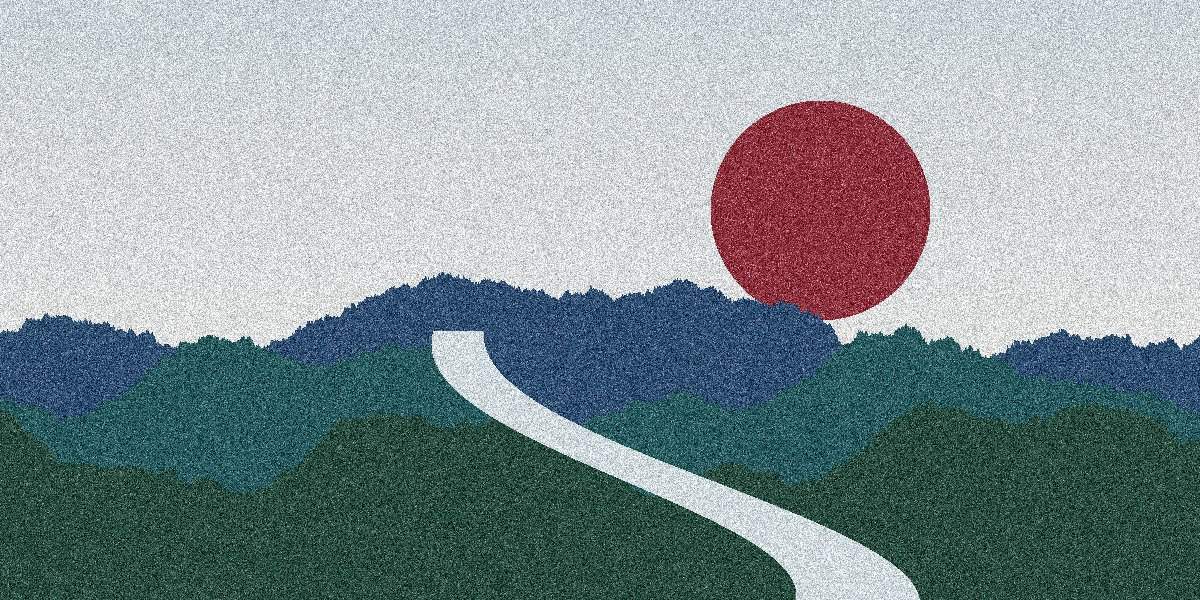
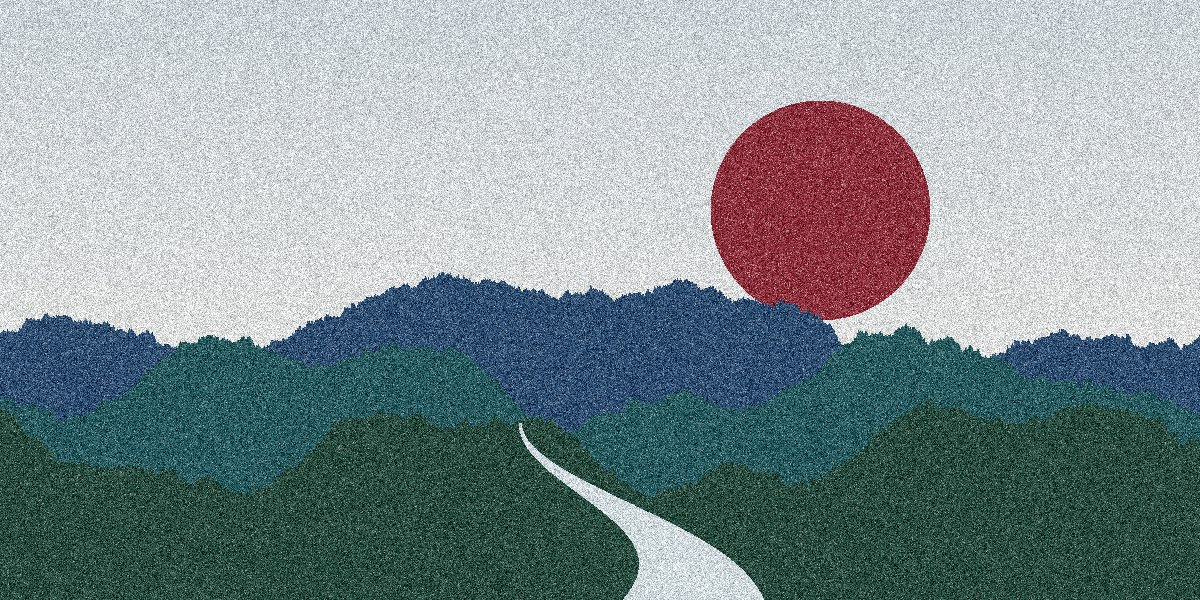
Make Thursday's river emerge from behind the front hill
Claude-Session: https://claude.ai/code/session_01CPFfiZz4rjPwAdTY8Ptavd

Changed region(s): [[0.3392, 0.54, 0.7708, 1.0]]

diff --git a/art/thu/make.py b/art/thu/make.py
@@ -44,9 +44,14 @@ save(img,'thu_02.jpg')
 # 03 River valley: a winding pale river through layered hills, wine sun
 img=sky(SKYB*0.35+PAPER*0.65,PAPER,1.0); sun(img,820,210,110)
 for y0,amp,seed,freq,col,d in [(300,40,11,140,PRUSSIAN,.9),(370,34,12,100,TEAL,.92),(440,28,13,80,PINE,.94)]:
-    stip(img,below(ridge(y0,amp,seed,freq)),col,d)
-t=np.linspace(0,1,H); cx=600+260*np.sin(t*7+1)*t; wdt=2+60*t**1.6
-riv=(np.abs(X-cx[:,None])<wdt[:,None])&(Y>330)
+    rr=ridge(y0,amp,seed,freq); stip(img,below(rr),col,d)
+front=rr
+# river emerges from behind the front hill and widens toward the viewer
+x_src=520; y_src=int(front[x_src])+6
+yy=np.arange(H); t=np.clip((yy-y_src)/(H-y_src),0,1)
+cx=x_src+120*np.sin(t*3.2)*t+180*t**2
+wdt=1.5+70*t**1.7
+riv=(np.abs(X-cx[:,None])<wdt[:,None])&(Y>=y_src)&below(front)
 img[riv]=MIST*0.8+PAPER*0.2
 save(img,'thu_03.jpg')
 
